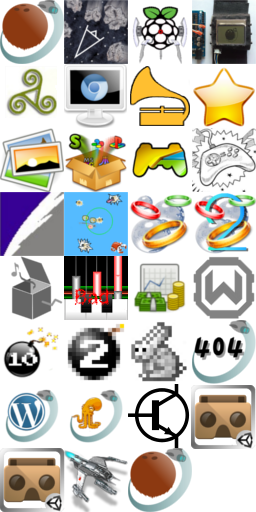
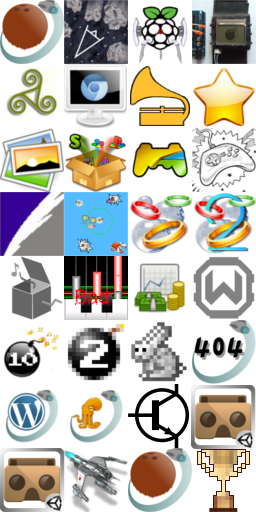
Retrophies project

Changed region(s): [[0.75, 0.875, 1.0, 1.0]]

diff --git a/source/_layouts/index.html b/source/_layouts/index.html
@@ -103,11 +103,11 @@
                <p>RTS template optimized for mobile, built in Unity3D inspired in StarCraft</p>
             </div>
             <div class="col-sm-3 col-lg-3 column">
-               <h3>Gramola</h3>
+               <h3>Retrophies</h3>
                <div class='circular project'>
-                  <a target='_self' href='/projects/gramola' class='project-gramola'></a>
+                  <a target='_self' href='/projects/retrophies' class='project-retrophies'></a>
                </div>
-               <p>Lightweight online music player, powered by JPlayer with tons of features</p>
+               <p>Achievements System for Emulators</p>
             </div>
             <div class="col-sm-3 col-lg-3 column">
                <h3>Game Manager</h3>

diff --git a/source/stylesheets/projects.css b/source/stylesheets/projects.css
@@ -84,7 +84,7 @@ table {  width:100%}
 .project-3d-house{ background-position:0px -448px;}
 .project-starcraft-unity3d{ background-position:-64px -448px;}
 .project-coconauts-ci{ background-position:-128px -448px;}
-
+.project-retrophies{ background-position:-192px -448px;}
 
 
 .title{font-weight:bold;}
